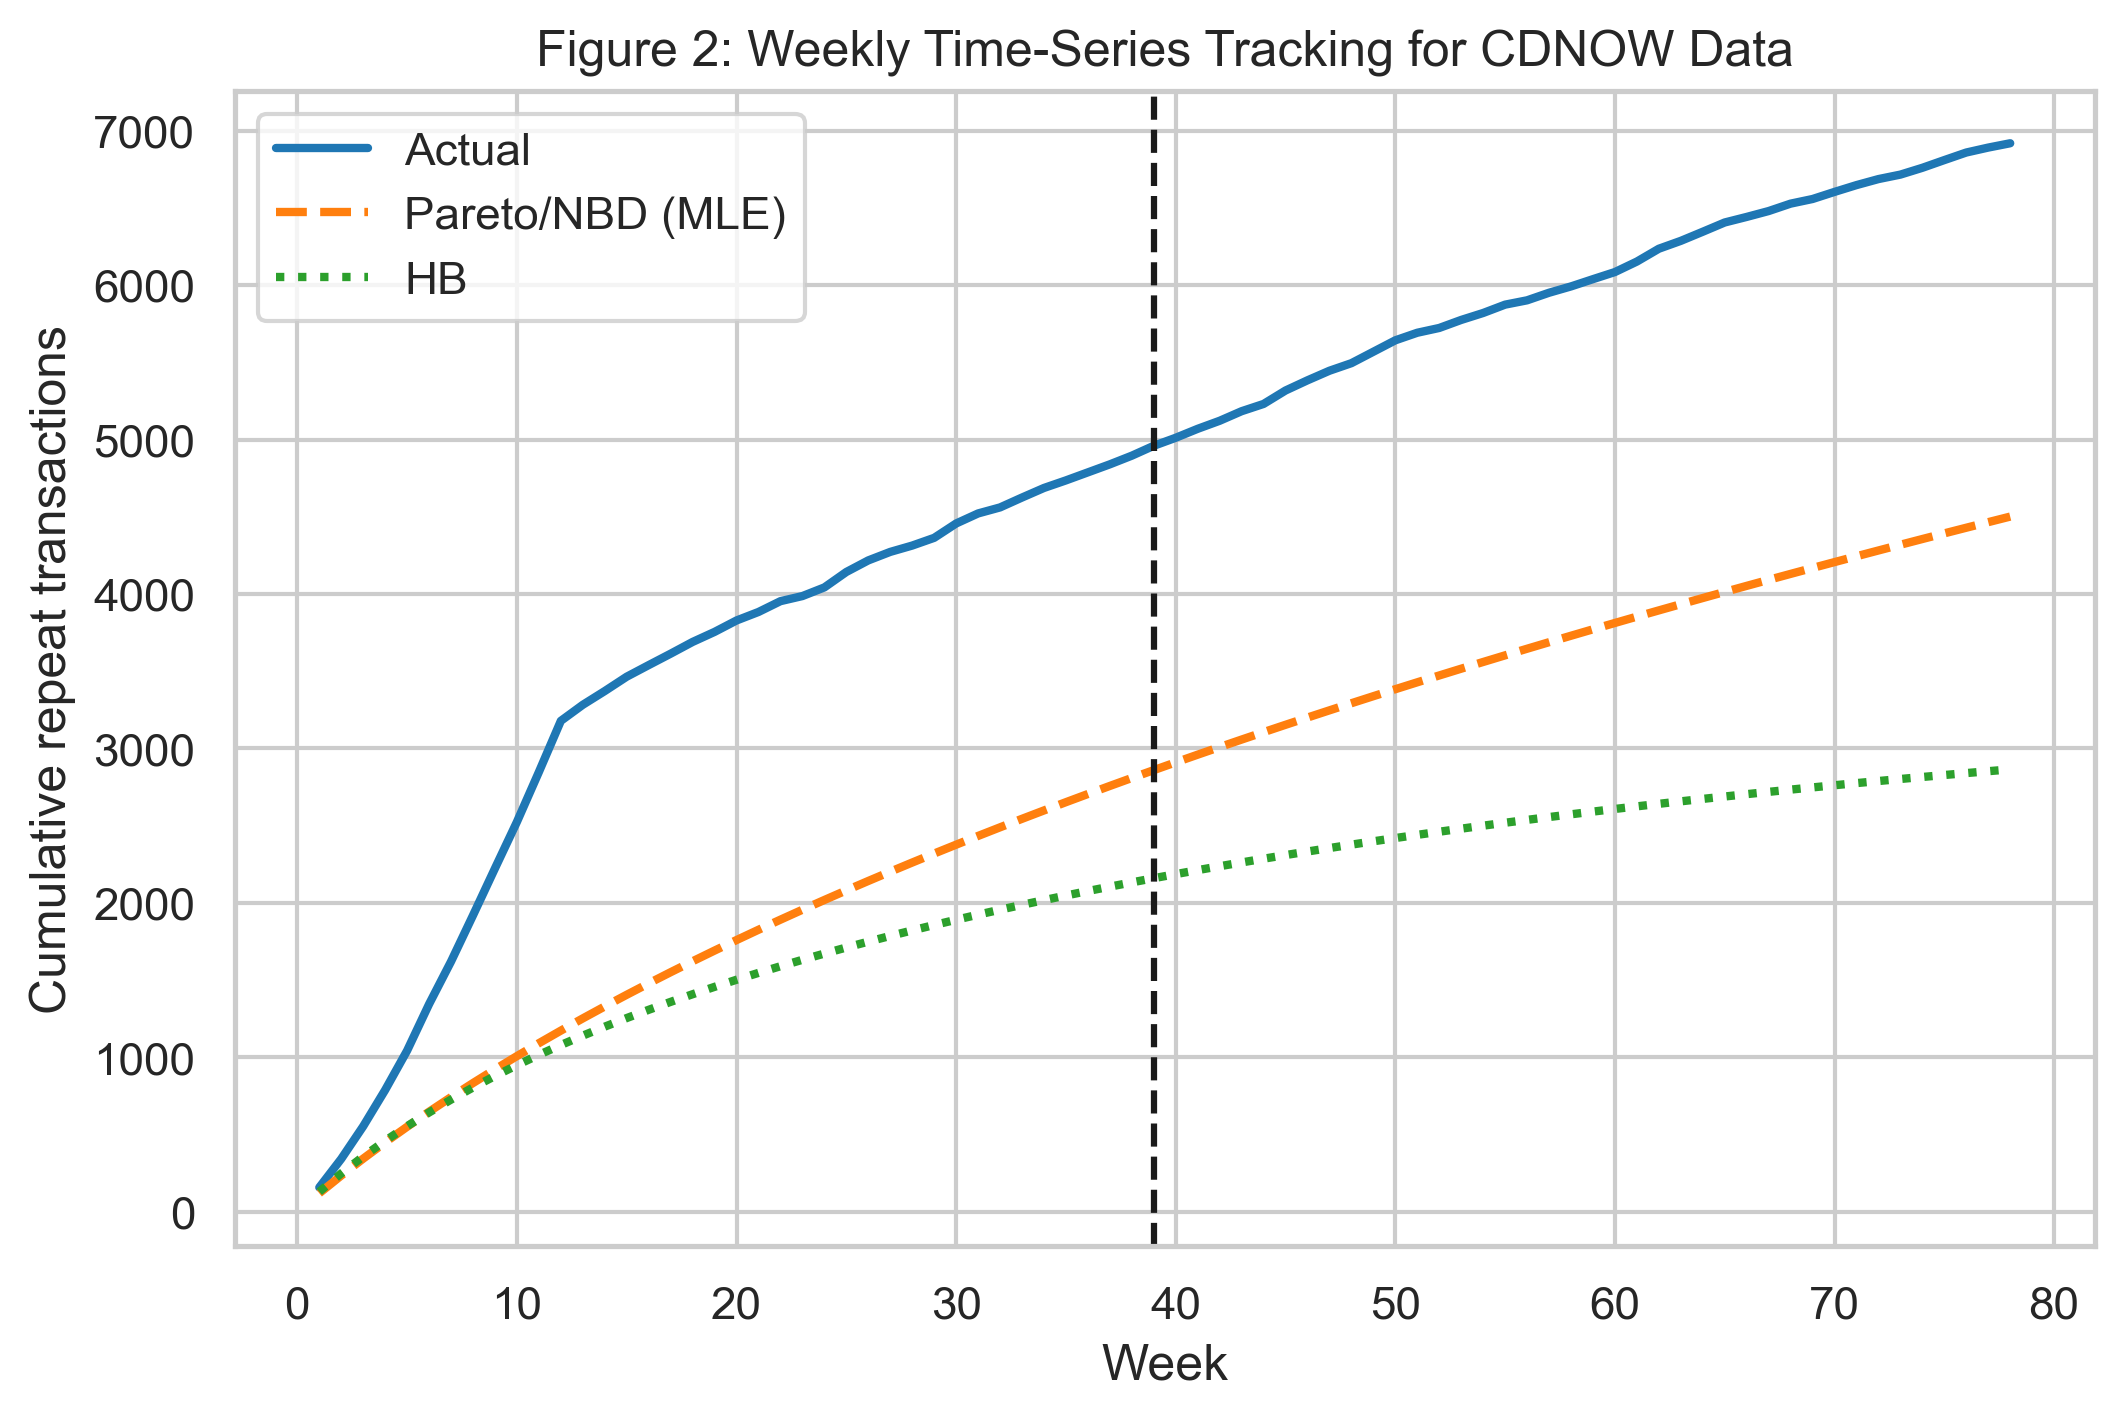
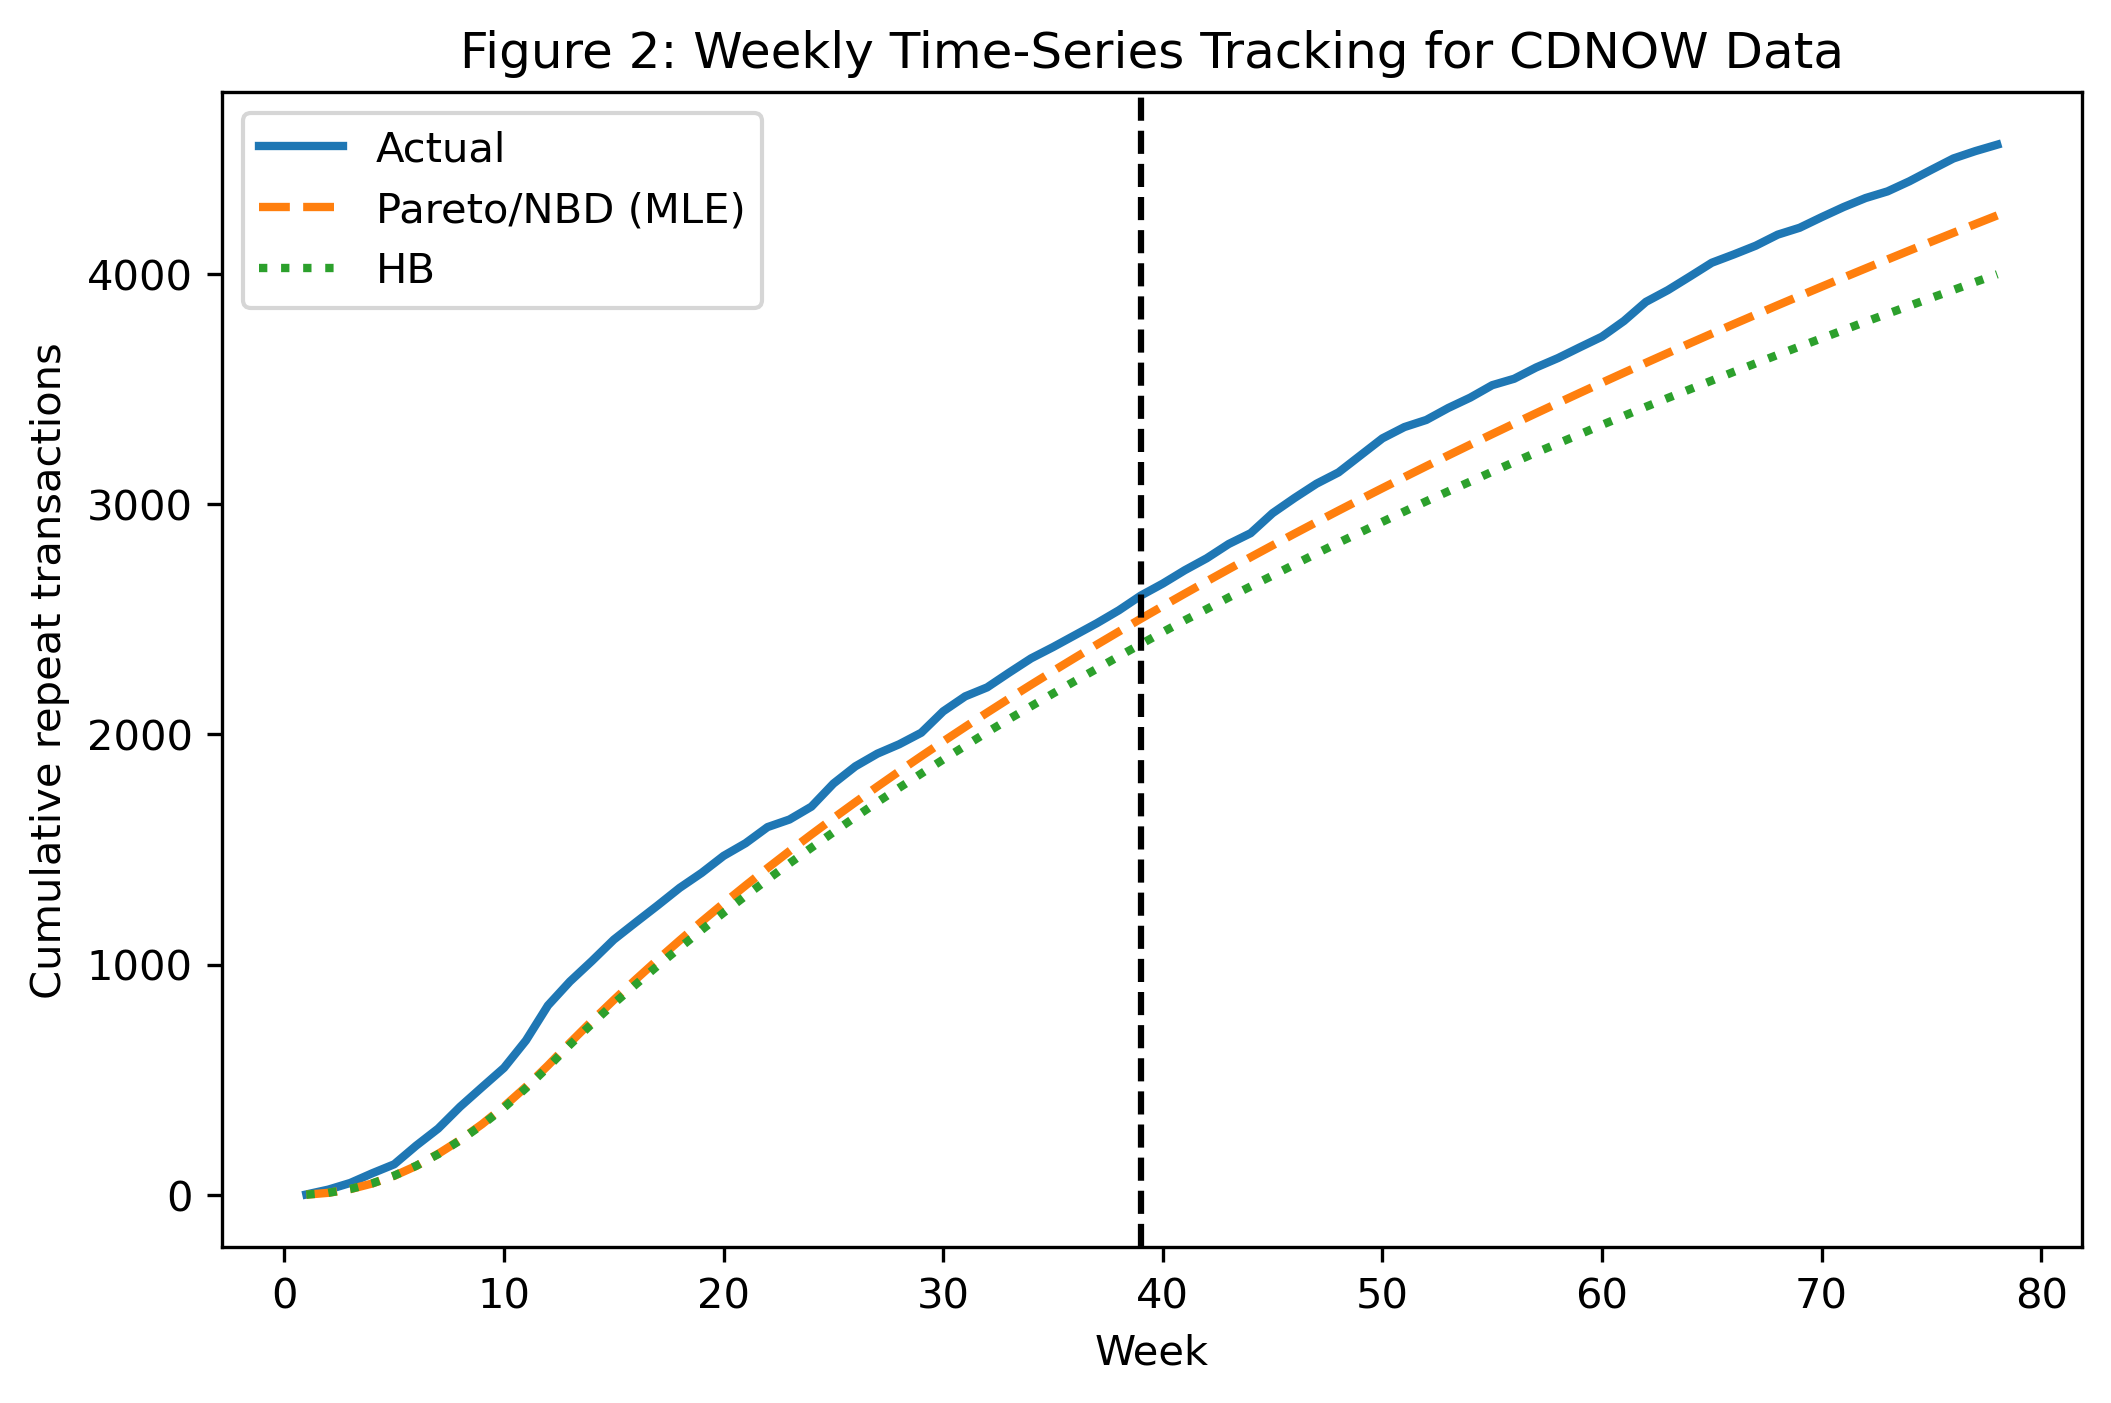
modified:   Estimation/Figure2_weekly_tracking.png 	modified:   Estimation/estimation_summaries.xlsx 	renamed:    Models/elog2cbs.py -> Models/elog2cbs2param.py 	renamed:    Models/pareto_abe_manual.py -> Models/model_abe_2009_two_param.py 	modified:   abe_python_implementation.py

diff --git a/abe_python_implementation.py b/abe_python_implementation.py
@@ -12,10 +12,10 @@ from lifetimes import ParetoNBDFitter
 
 # Import functions 
 # Import custom modules for data processing
-from Models.elog2cbs import elog2cbs
+from Models.elog2cbs2param import elog2cbs
 
 # Import custom modules for model estimation and prediction
-from Models.pareto_abe_manual import (
+from Models.model_abe_2009_two_param import (
     mcmc_draw_parameters,
     draw_future_transactions
 )
@@ -432,7 +432,7 @@ with pd.ExcelWriter(excel_path, engine="openpyxl", mode="a", if_sheet_exists="re
     table4.to_excel(writer, sheet_name="Table 4")
 
 
-# %% Figures 2–5: Reproduce Abe (2009) plots
+# Figures 2–5: Reproduce Abe (2009) plots
 # Prepare weekly index and counts
 first_date = cdnowElog["date"].min()
 cdnowElog["week"] = ((cdnowElog["date"] - first_date) // pd.Timedelta("7D")).astype(int) + 1
@@ -446,24 +446,57 @@ pnbd_mle.fit(
     T=cbs["T_cal"]
 )
 
-# Figure 2: Weekly cumulative repeat transactions
-weekly_actual = cdnowElog.groupby("week")["cust"].count().reindex(range(1, max_week+1), fill_value=0)
+# %% Figure 2: Weekly cumulative repeat transactions
+cdnowElog_sorted = cdnowElog.sort_values(by=["cust","week"])
+cdnowElog_sorted["txn_order"] = cdnowElog_sorted.groupby("cust").cumcount()
+repeat_txns = cdnowElog_sorted[cdnowElog_sorted["txn_order"] >= 1]
+weekly_actual = (
+    repeat_txns.groupby("week")["cust"].count()
+    .reindex(range(1, max_week+1), fill_value = 0))
+
+# Cumulative actual transactions
 cum_actual = weekly_actual.cumsum()
 
-# True Pareto/NBD (MLE) expected cumulative transactions (aggregated)
-times = np.arange(1, max_week+1)
-# expected cumulative purchases per customer at each t
-per_cust_pnbd = np.array([
-    pnbd_mle.expected_number_of_purchases_up_to_time(t) for t in times
-])
-# multiply by number of customers to get group-level cumulative
-cum_pnbd_ml = per_cust_pnbd * len(cbs)
-
-# HB model cumulative
-inc_hb = (mean_lambda_m2[:, None]/mean_mu_m2[:, None]) * (
-    np.exp(-mean_mu_m2[:, None]*(times-1)) - np.exp(-mean_mu_m2[:, None]*times)
+ # --- Birth‑aligned Pareto/NBD baseline (MLE) -----------------
+# first purchase week for each customer
+birth_week = (
+    cdnowElog.groupby("cust")["week"].min()
+    .reindex(cbs["cust"])
+    .to_numpy()
 )
-cum_hb = inc_hb.sum(axis=0).cumsum()
+
+times = np.arange(1, max_week + 1)
+cum_pnbd_ml = np.zeros_like(times, dtype=float)
+
+for t_idx, t in enumerate(times):
+    # time since first purchase (≥0) for each customer
+    rel_t = np.clip(t - birth_week, 0, None)
+    exp_per_cust = pnbd_mle.expected_number_of_purchases_up_to_time(rel_t)
+    cum_pnbd_ml[t_idx] = exp_per_cust.sum()
+
+# --- Posterior‑predictive HB curve -----------------------------------------
+n_draws = len(xstar_m2_draws)
+inc_hb_weekly = np.zeros_like(times, dtype=float)
+
+for d in range(n_draws):
+    # map flat draw index `d` to (chain, draw) indices
+    draws_per_chain = len(draws_m2["level_1"][0])
+    chain = d // draws_per_chain
+    idx   = d % draws_per_chain
+    lam_d = draws_m2["level_1"][chain][idx, :, 0]
+    mu_d  = draws_m2["level_1"][chain][idx, :, 1]
+    tau_d = draws_m2["level_1"][chain][idx, :, 2]
+
+    rng_d = np.random.default_rng(d)  # reproducible per draw
+    for t_idx, t in enumerate(times):
+        dt = 1.0
+        active = (t > birth_week) & (t <= (birth_week + tau_d))   # after first purchase, before churn
+        inc = rng_d.poisson(lam=lam_d * dt * active)
+        inc_hb_weekly[t_idx] += inc.sum()
+
+# average across draws and take cumulative
+inc_hb_weekly /= n_draws
+cum_hb = np.cumsum(inc_hb_weekly)
 
 plt.figure(figsize=(8,5))
 plt.plot(times, cum_actual, '-', color='tab:blue', linewidth=2, label="Actual")
@@ -477,8 +510,7 @@ plt.legend()
 plt.savefig(os.path.join("Estimation","Figure2_weekly_tracking.png"), dpi=300, bbox_inches='tight')
 plt.show()
 
-#
-# Figure 3: Conditional expectation of future transactions
+# %% Figure 3: Conditional expectation of future transactions
 # Group by number of calibration transactions (0–7+)
 # Updated to use Pareto/NBD baseline with Model M1 posterior means
 df = pd.DataFrame({
@@ -506,7 +538,7 @@ plt.legend()
 plt.savefig(os.path.join("Estimation","Figure3_conditional_expectation.png"), dpi=300, bbox_inches='tight')
 plt.show()
 
-# Figure 4: Scatter plot of posterior means of λ and μ
+# %% Figure 4: Scatter plot of posterior means of λ and μ
 plt.figure(figsize=(6,6))
 plt.scatter(mean_lambda_m2, mean_mu_m2, alpha=0.3)
 plt.xlabel("λ")
@@ -515,7 +547,7 @@ plt.title("Figure 4: Scatter Plot of Posterior Means of λ and μ for CDNOW Data
 plt.savefig(os.path.join("Estimation","Figure4_scatter_lambda_mu.png"), dpi=300, bbox_inches='tight')
 plt.show()
 
-# Figure 5: Histogram of correlation between log(λ) and log(μ)
+# %% Figure 5: Histogram of correlation between log(λ) and log(μ)
 # Compute correlation draws from level_2
 corr_draws = []
 for chain in draws_m2["level_2"]:

diff --git a/Models/model_abe_2009_two_param.py b/Models/model_abe_2009_two_param.py
@@ -1,6 +1,9 @@
-"""pareto_abe.py
+"""
 Python re-implementation of the hierarchical-Bayes Pareto/NBD variant from
-Abe (2009):
+Abe (2009) with two parameters (λ, μ).
+
+This module provides a complete implementation of the Pareto/NBD model as
+described in Abe's 2009 paper, including:
 
 * Synthetic-data generator identical to `abe.GenerateData` from the original R
   code.
